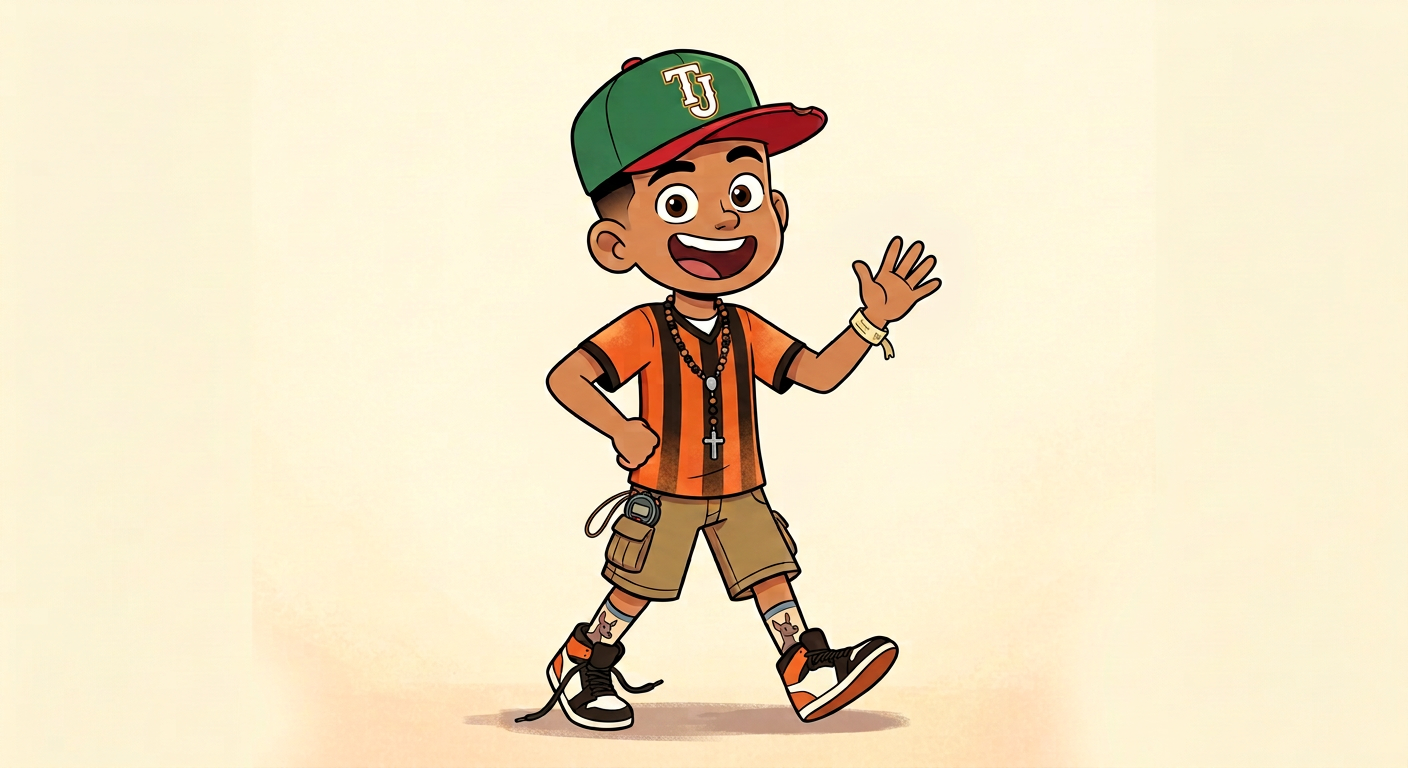
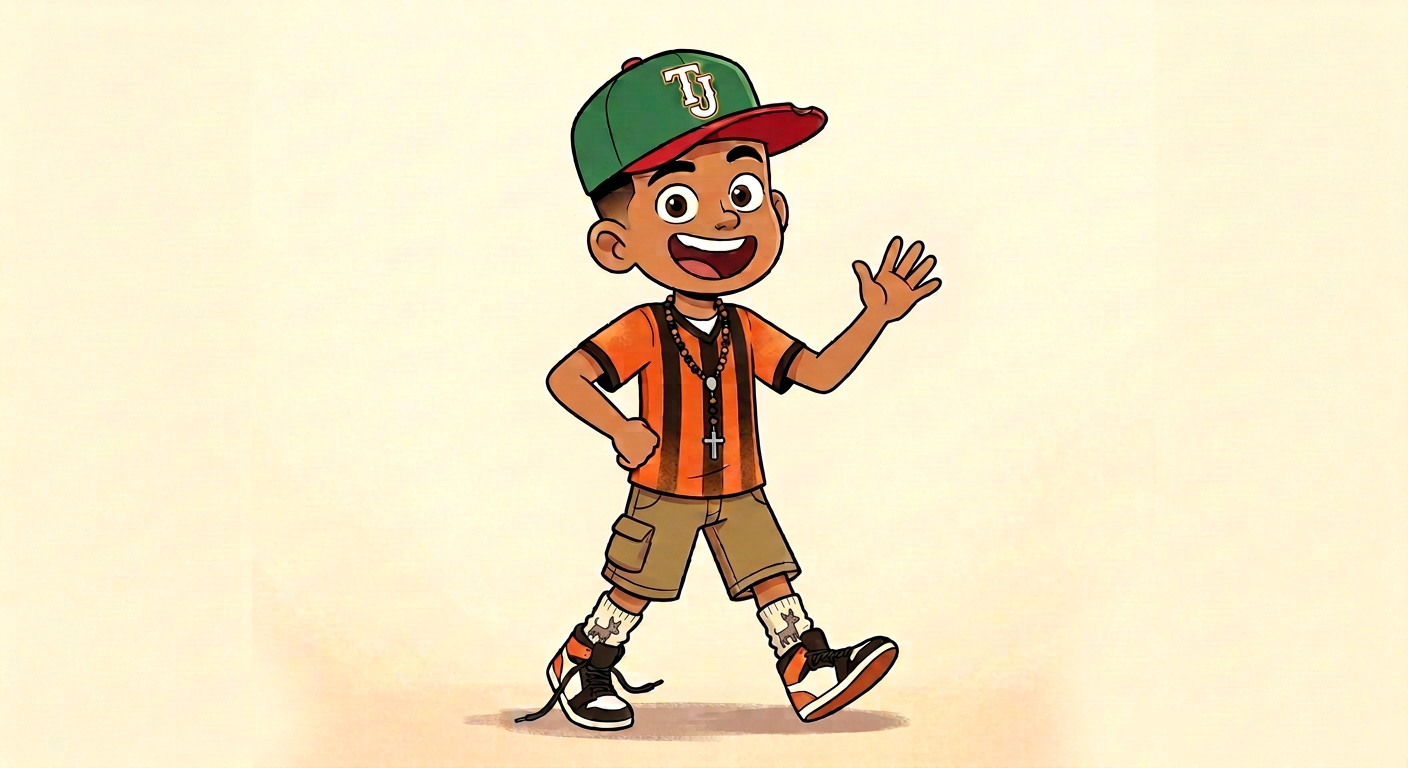
Chuy: bare wrists, no stopwatch; citizenship moved off the body
- hero art: removed hospital wristband and pocket stopwatch, restored
  xolo-print crew socks; rosary remains the only object on his skin
- bible: 'El Cronometro' is now a nickname, not a gadget; dual
  citizenship lives in the coffee tin at Dona Cuquita's, mentioned in
  dialogue, never decorated on screen
- continuity list: wrists and pockets stay clean rule

diff --git a/docs/personaje-chuy-ibarra.md b/docs/personaje-chuy-ibarra.md
@@ -17,7 +17,7 @@
 | **Idioma** | Spanglish. Cambia de idioma a mitad de frase según la emoción |
 | **Mascota** | *Semáforo*, un xoloitzcuintle flaco que solo ladra en rojo |
 | **Trabajo** | Se encarga de "la línea" (la fila peatonal): cuida lugares, cuenta horas, vende mangos con chile en vaso |
-| **Atributo mágico** | El Cronómetro: sabe cuánto va a tardar cualquier fila solo con oler el aire |
+| **Atributo mágico** | Le dicen "el Cronómetro": sabe cuánto va a tardar cualquier fila solo con oler el aire. No carga ningún aparato — el reloj es él |
 | **Debilidad** | No aguanta estar quieto. Y los formularios. Los formularios lo aterran |
 
 ---
@@ -44,8 +44,9 @@ Warm comedy with a dash of fantasy. Poverty is never the punchline; *waiting* is
 - Tenis de caña alta, uno con el cordón desamarrado (nunca se amarra: "si me amarro, me detengo").
 - calcetines con estampado de perrito xolo.
 - **Al cuello: el rosario de su abuela.** Cuenta de madera oscura, crucifijo de plata chiquito, medallita de la Virgen. No lo reza, lo *acaricia* cuando está nervioso (y lo encuentra en el bolsillo derecho sin meter la mano, siempre). Es lo único que no puede perder, y lo intenta perder tres veces en la temporada.
-- **En la muñeca: la pulsera del hospital.** La banda de papel de recién nacido del hospital de San Ysidro donde nació, desteñida por el sol y asegurada con un hilo. Nadie en la familia sabe por qué la trae; él tampoco lo sabe explicar. **Esta es la declaración de doble ciudadanía del personaje** — dos pasaportes colgando del cuello era un panfleto; una pulsera de hospital que un niño de once años no se quita es una historia.
-- **El cronómetro ya no cuelga del cuello:** vive en el bolsillo del cargo, asomando con un cordel. Así puede correr sin que le pegue en la cara.
+- **Manos y muñecas desnudas. Cero relojes, cero pulseras, cero cronómetros.** El reloj estaba en el cuello, se movió al bolsillo, y ahora se fue del diseño. **Qué ganamos con eso:** el único objeto tocando su piel es el rosario de su abuela, así que la silueta dice "fe heredada" y no "quiosco de souvenirs fronterizo". Y un niño que se mueve sin cargar nada es un niño que nunca tiene que abrir la bolsa de los papeles frente a nadie.
+- **Dónde se fue la doble ciudadanía:** ya no la lleva puesta, la guarda. Vive en la **lata de café** sobre el refrigerador de Doña Cuquita, con los dos pasaportes adentro, el acta de nacimiento de California y una foto desteñida. Nadie necesita verla para saber que está ahí. Regla de la serie: **la ciudadanía de Chuy nunca entra en cuadro, siempre se menciona** — se nombra en diálogo, nunca se decora.
+- El **Cronómetro** sobrevive como apodo de su ojo, no como artefacto: la gente del barrio le dice "el Cronómetro" a Chuy porque nunca se equivoca con las horas. Verde = avanza. Rojo = corre.
 - Sonrisa grande, cejas expresivas, cero sombrero, cero poncho, cero cliché de caricatura. Su cultura está en lo que dice, hace y repara — no en el vestuario folclórico.
 - **Regla de props:** nunca dibujar documentos, pasaportes ni papeles oficiales en la mano de un personaje. La ciudadanía se cuenta con objetos, no con papeleo.
 
@@ -90,7 +91,7 @@ Warm comedy with a dash of fantasy. Poverty is never the punchline; *waiting* is
 
 ## 6. Poderes y reglas / Powers & rules
 
-- **El Cronómetro**: al oler el aire, Chuy sabe cuánto tardará cualquier fila. Verde = avanza. Rojo = corre.
+- **"El Cronómetro"**: apodo, no aparato. Al oler el aire, Chuy sabe cuánto tardará cualquier fila. Verde = avanza. Rojo = corre. No existe reloj, pulsera ni gadget en su diseño: el poder vive en su nariz y en su memoria, no en un objeto que alguien le pueda quitar en una revisión.
 - **Spanglish Boost**: cuando cambia de idioma a mitad de frase, se mueve el doble de rápido. Si lo dice todo en un solo idioma, es lento. (Metáfora del personaje, sí, y también su motor de comedia.)
 - **Regla dura / Limitation**: **no puede acortar la línea, solo hacerla llevadera.** Cada vez que intenta saltársela, DON ESPERA se hace más grande. Lección recurrente de la serie.
 - **Precios / Cost**: usar el Cronómetro le cuesta un suspiro. Cuando se queda sin suspiros, no puede cruzar hasta que alguien lo haga reír.
@@ -119,13 +120,14 @@ Warm comedy with a dash of fantasy. Poverty is never the punchline; *waiting* is
 
 ## 9. Archivos / Files
 
-- `assets/chuy-ibarra.png` — pose heroica de Chuy: gorra con monograma **TJ**, rosario al cuello, pulsera del hospital en la muñeca, cronómetro asomando del bolsillo. Tenis sin marca registrada (a propósito).
+- `assets/chuy-ibarra.png` — pose heroica de Chuy: gorra con monograma **TJ**, rosario al cuello, muñecas desnudas, bolsillos vacíos. Tenis sin marca registrada (a propósito). Sin relojes ni pasaportes a la vista.
 - `assets/dona-cuquita-semaforo.png` — hoja de elenco: Doña Cuquita (cuchara de madera, rebozo, chancla en el bolsillo del mandil como funda) y Semáforo en pleno ladrido.
 - Este documento — la biblia del personaje.
 
 **Continuidad visual confirmada en el arte (no cambiar sin editar esta sección):**
 1. Gorra verde / visera roja, logo **solo "TJ"**, sin wordmark, usada hacia el frente. Visera del lado izquierdo doblada hacia arriba.
-2. Rosario siempre visible sobre el jersey; la cuenta la trae en el bolsillo derecho del cargo.
+2. Rosario siempre visible sobre el jersey; es el único objeto que toca su piel.
 3. Zapatos: negros, blancos y naranjas, **sin ningún logo**.
 4. Calcetines con perrito xolo estampado (guiño a Semáforo, no adorno random).
 5. Paleta compartida entre los tres personajes: crema de fondo, ocre, coral, azul Pacífico.
+6. **Muñecas y bolsillos limpios:** nada de relojes, pulseras, cronómetros ni cordones colgando. Si aparece un objeto nuevo en su cuerpo, esta lista se edita primero.
